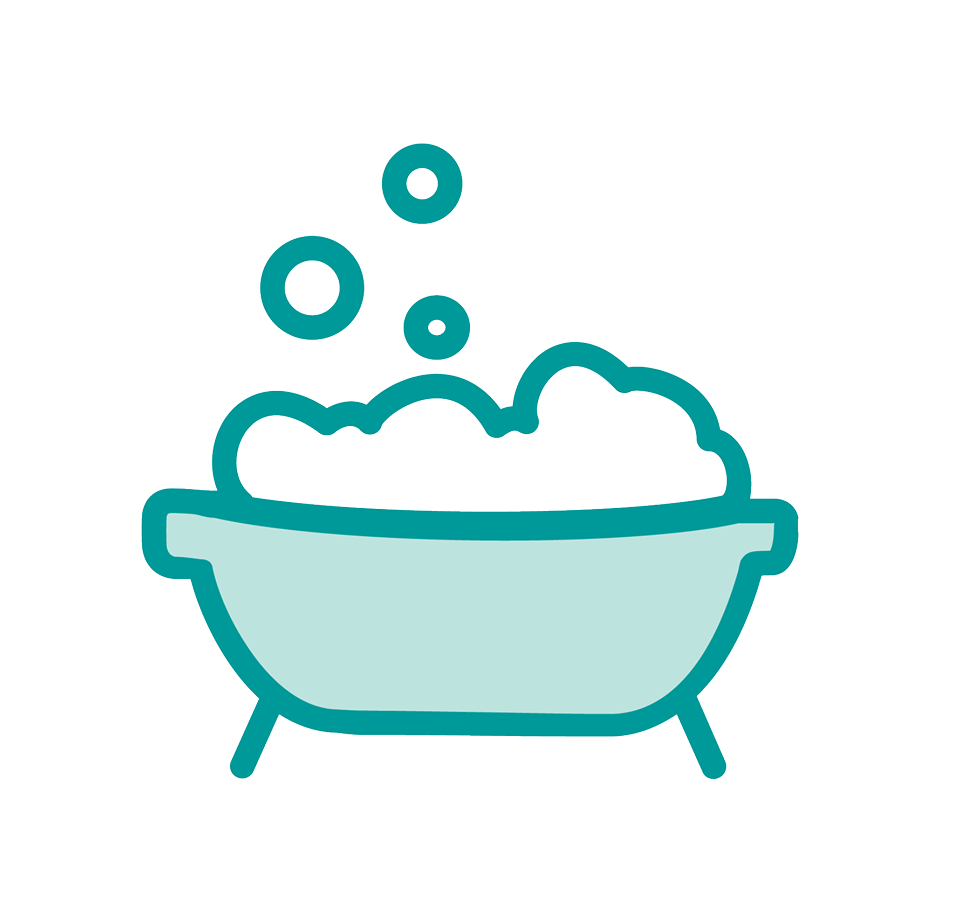
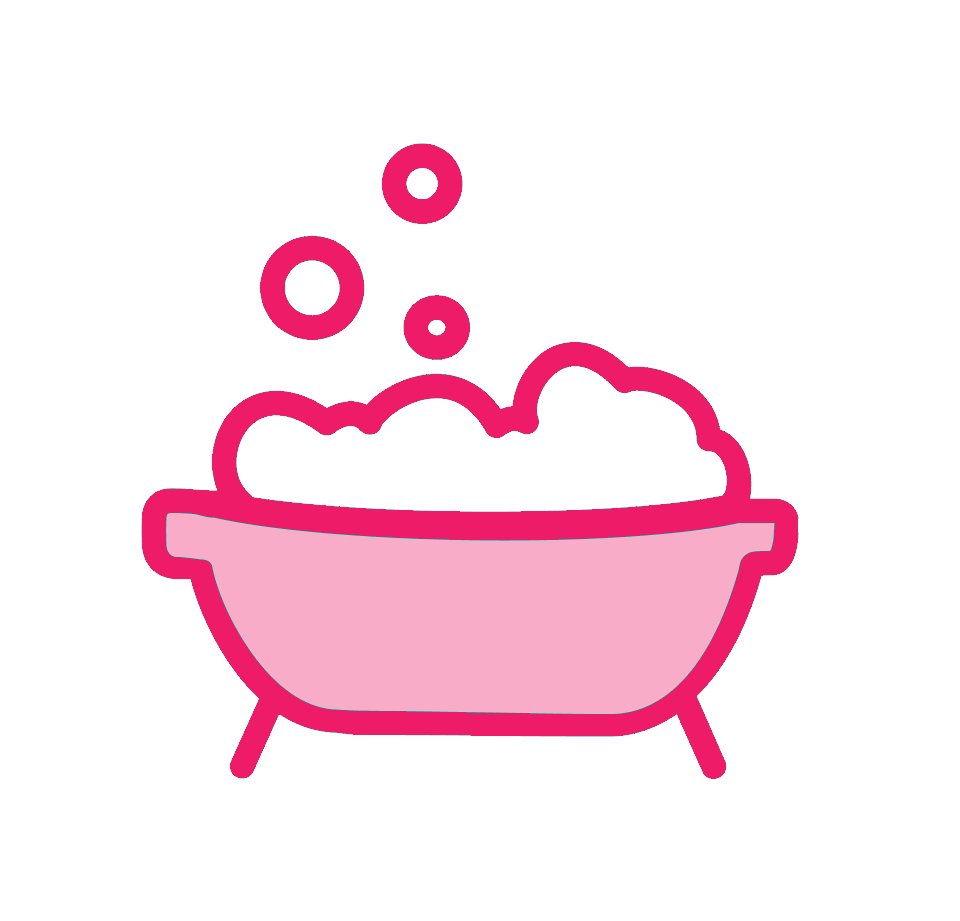
Offer - dripping

Changed region(s): [[0.125, 0.304, 0.8438, 0.8512], [0.25, 0.2432, 0.4062, 0.3952], [0.375, 0.152, 0.5, 0.2432]]

diff --git a/src/pages/oferta/kapiel/index.js b/src/pages/oferta/kapiel/index.js
@@ -1,0 +1,105 @@
+import React from 'react'
+import Layout from '../../../components/Layout'
+import OfferWallpaper from '../../../img/offerWallpaper.jpg'
+
+const GalleryFolder = props => {
+  return (
+    <Layout>
+      <div
+        className="full-width-image-container margin-top-0"
+        style={{
+          backgroundImage: `url(${OfferWallpaper})`
+        }}>
+        <div style={{
+          background: 'linear-gradient(to top right, #009999, 10%, transparent, 90%, #ED1B68)',
+          color: '#fff',
+          padding: '2rem 6rem',
+          width: '100%',
+          height: '100%',
+          display: 'flex',
+          justifyContent: 'flex-start',
+          alignItems: 'flex-end'
+        }}>
+          <h2 className="has-text-weight-bold is-size-1 except-mobile">
+            Nasze usługi - kąpiel
+          </h2>
+        </div>
+      </div>
+      <section className="section">
+        <div className="container">
+          <div className="content" style={{padding: '30px 150px'}}>
+            <p>
+              <h3 className="is-2">Kąpiel</h3>
+              <br/>
+              Kąpiel to podstawowa usługa jaką można wykonać w naszym Salonie.
+              W zależności od struktury włosa, jego kondycji oraz oczekiwanego efektu dobieramy rodzaj
+              kosmetyków, jakie zastosujemy do pielęgnacji Twojego pupila.<br/>
+              Pracujemy na kosmetykach renomowanych firm przeznaczonych dla psów:<br/>
+              m.in. K9, Botaniqa, Diamex, PSH, Double K.<br/>
+              <br/>
+              Wyróżniamy m.in. kąpiele nawilżające, odżywcze, nabłyszczające, lecznicze, pomagające pozbyć się podszerstka.<br/>
+              <br/>
+              Usługa kąpieli psa zawiera:<br/>
+              • ocenę struktury i stanu szaty oraz skóry<br/>
+              • dobranie odpowiednich kosmetyków w celu uzyskania oczekiwanego efektu<br/>
+              • kąpiel psa w szamponie dogłąbnie myjącym, by pozbyć się brudu z sierści<br/>
+              • kąpiel funkcyjnia z zastosowaniem kosmetyku pielęgnacyjnego<br/>
+              • wysuszenie z modelowaniem szaty<br/>
+              • czyszczenie uszu oraz oczu jeżeli jest to konieczne<br/>
+              • przycięcie pazurów<br/>
+              <br/>
+              Usługa samej kąpieli jest możliwa tylko w przypadku ras nieliniejących oraz psów nieskołtunionych<br/>
+            </p>
+            <br/>
+            <br/>
+            <p>
+              <h3 className="is-2">Kąpiel z kosmetyką</h3><br/>
+              Kąpiel z kosmetyką to propozycja skierowana do właścicieli ras nieliniejących, piesków z szatą długą<br/>
+              (typu maltańczyk, york, bichon, itp.).<br/>
+              <br/>
+              Jest to rozszerzona usługa kąpieli. Zawiera dodatkowo:<br/>
+              • podcięcie okolic oczu, odbytu oraz miejsc intymnych<br/>
+              • wycięcie włosów między poduszkami<br/>
+              • przeczesanie szaty<br/>
+              <br/>
+              Oferta ta skierowana jest do właścicieli, którzy pragną by ich pupil miał zapewniony maksymalny komfort oraz cały czas wyglądał dobrze pomiędzy strzyżeniami.<br/>
+            </p>
+            <p>
+              <br/>
+              <h3 className="is-2">Kąpiele lecznicze</h3>
+              <br/>
+              W ofercie posiadamy kąpiele lecznicze z użyciem innowacyjnego, japońskiego systemu Nagayu.<br/><br/>
+              <h4 className="is-3">Pozbycie się nieprzyjemnego zapachu oraz poprawa kondycji sierści</h4>
+              System Nagayu CO2 działa dużo wydajniej niż standardowa kąpiel środkami do pielęgnacji. Dzięki działaniu
+              jonów wodorowęglanowych oraz jonów wodorowych doskonale radzi sobie ze zmyciem odpadów mineralnych
+              oraz brudu zatkanego w cebulce włosa.<br/>
+              <br/>
+              <h4 className="is-3">Pielęgnacja i wzmocnienie skóry</h4>
+              Kąpiele przy użyciu systemu Nagayu przyspieszają proces gojenia, zwększjąc przepływ krwi, umożliwiając komórkom wchłanianie większej ilości składników odżywczych oraz tlenu w procesie regeneracji komórek. Aby
+              unikąc przesuszenia w wyniku głebokiego czyszczenia skóry, do tabletek Nagayu dodano suplement nawilżający.<br/>
+              <br/>
+              <h4 className="is-3">Jak to działa?</h4>
+              Tabletki Nagayu wydzielają miliony cząsteczek kwasu węglowego oraz jonów wodorowych zmieniając wodę
+              w system SPA z CO2. Cząsteczki dwutlenku węgla przedostają się do naczyń krwionośnych i powodują ich rozszerzenie i zwiększenie przepływu krwi. W ten sposób komórki otrzymują więcej składników odżywczych i tlenu,
+              co przyspiesza metabolizm i przyspiesza proces gojenia.<br/>
+              <br/>
+              By zapoznać się z efektami leczenia sytemem Nagayu zapraszam na stronę producenta:<br/>
+              <br/>
+              <h4 className="is-3"><a href="https://www.nagayu.com/" target="_blank">https://www.nagayu.com/</a></h4>
+              Usługa kąpieli leczniczej z zastosowaniem systemu Nagayu zawiera:<br/>
+              • ocenę stanu skóry oraz sierści<br/>
+              • dobranie odpowiedniej dawki tabletek Nagayu SPA CO2<br/>
+              • kąpiel oczyszczająca w szamponie dogłębnie myjącym<br/>
+              • kąpiel funkcyjna w szamponie leczniczym<br/>
+              • kąpiel z zastosowaniem systemu Nagayu SPA CO2<br/>
+              • suszenie<br/>
+              • czyszczenie oczu oraz uszu jeżeli to konieczne<br/>
+            </p>
+          </div>
+        </div>
+      </section>
+    </Layout>
+  )
+}
+
+export default GalleryFolder

diff --git a/src/pages/oferta/index.js b/src/pages/oferta/index.js
@@ -17,7 +17,7 @@ import TrimmingText from '../../img/trimming-text.png'
 import ExhibitionsText from '../../img/exhibitions-text.png'
 import ColoringText from '../../img/coloring-text.png'
 
-import { FaChevronLeft, FaChevronRight } from 'react-icons/fa';
+import { FaInfo, FaChevronLeft, FaChevronRight } from 'react-icons/fa';
 
 const moveLeft = keyframes`
   0% {
@@ -146,6 +146,19 @@ const ServiceName = styled.div`
   text-align: center;
 `
 
+const LinkStyled = styled.a`
+  position: absolute;
+  left: 0px;
+  top: 0px;
+  height: 100%;
+  width: 100%;
+  display: flex;
+  justify-content: center;
+  align-items: center;
+  flex-direction: column;
+  padding: 25px;
+`
+
 export default class OfferIndexPage extends React.Component {
   constructor(props) {
     super(props);
@@ -231,13 +244,19 @@ export default class OfferIndexPage extends React.Component {
                       <ServiceWrapper>
                         <Service>
                           <ServiceText>
-                            <Img className="text" src={DrippingText} alt="Clipping" />
+                            <Img className="text" src={DrippingText} alt="Dripping" />
                           </ServiceText>
-                          <ServiceFront className="front">
-                            <Img src={Dripping} alt="Dripping" style={{top: -6, left: 0}}/>
+                          <ServiceFront className="front" style={{borderColor: '#ED1B68'}}>
+                            <LinkStyled href="/oferta/kapiel" style={{color: 'white'}}>
+                              <Img src={Dripping} alt="Dripping" style={{top: -6, left: 0}}/>
+                            </LinkStyled>
                           </ServiceFront>
-                          <ServiceBack className="front">
-                            Lorem ipsum dolor sit amet, consectetur adipiscing elit. Phasellus varius condimentum nisl, a tristique magna placerat sed
+                          <ServiceBack className="front" style={{backgroundColor: '#ED1B68', color: 'white'}}>
+                            <LinkStyled href="/oferta/kapiel" style={{color: 'white'}}>
+                              Kąpiel to podstawowa usługa jaką można wykonać w naszym Salonie.
+                              <br/><br/>
+                              <div><FaInfo/> Kliknij aby dowiedzieć się więcej!</div>
+                            </LinkStyled>
                           </ServiceBack>
                         </Service>
                       </ServiceWrapper>

diff --git a/src/components/all.sass b/src/components/all.sass
@@ -516,3 +516,6 @@ a.has-text-primary:hover, a.has-text-primary:focus
 
 .textarea
   min-height: 200px
+
+h3.is-2, h4.is-3, a
+  color: $manczi-blue
